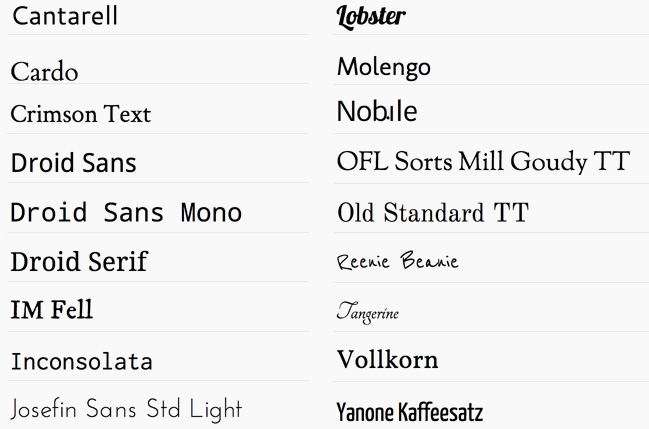
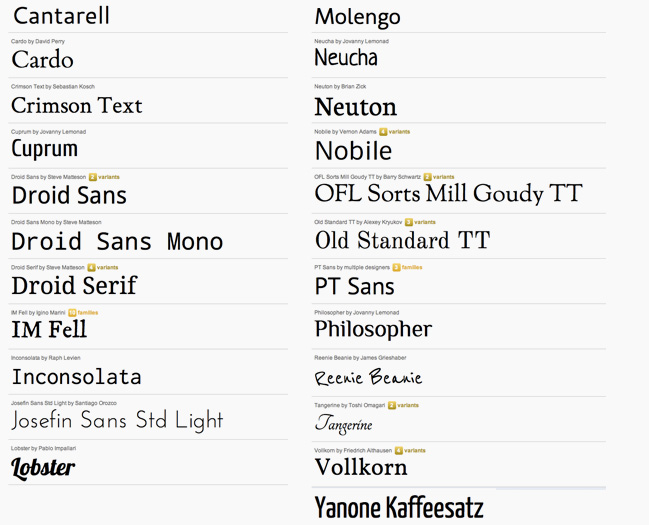
Added support for 5 new fonts
git-svn-id: https://plugins.svn.wordpress.org/wp-google-fonts/trunk@293608 b8457f37-d9ea-0310-8a92-e5e31aec5664

diff --git a/google-fonts.php b/google-fonts.php
@@ -2,7 +2,7 @@
 /* 
 Plugin Name: WP Google Fonts
 Plugin URI: http://adrian3.com/projects/wordpress-plugins/wordpress-google-fonts-plugin/
-Version: v1.3
+Version: v1.4
 Author: <a href="http://adrian3.com/">Adrian3</a>
 Description: The Wordpress Google Fonts Plugin makes it even easier to add and customize Google fonts on your site through Wordpress. 
 Author: Adrian Hanft
@@ -139,6 +139,14 @@ if ($this->options['googlefonts_font3'] == 'Crimson Text') 				{ echo '<link hre
 if ($this->options['googlefonts_font4'] == 'Crimson Text') 				{ echo '<link href=\'http://fonts.googleapis.com/css?family=Crimson+Text\' rel=\'stylesheet\' type=\'text/css\' />'; }
 if ($this->options['googlefonts_font5'] == 'Crimson Text') 				{ echo '<link href=\'http://fonts.googleapis.com/css?family=Crimson+Text\' rel=\'stylesheet\' type=\'text/css\' />'; }
 if ($this->options['googlefonts_font6'] == 'Crimson Text') 				{ echo '<link href=\'http://fonts.googleapis.com/css?family=Crimson+Text\' rel=\'stylesheet\' type=\'text/css\' />'; }
+
+// Cuprum
+if ($this->options['googlefonts_font1'] == 'Cuprum') 					{ echo '<link href=\'http://fonts.googleapis.com/css?family=Cuprum\' rel=\'stylesheet\' type=\'text/css\' />'; }
+if ($this->options['googlefonts_font2'] == 'Cuprum') 					{ echo '<link href=\'http://fonts.googleapis.com/css?family=Cuprum\' rel=\'stylesheet\' type=\'text/css\' />'; }
+if ($this->options['googlefonts_font3'] == 'Cuprum') 					{ echo '<link href=\'http://fonts.googleapis.com/css?family=Cuprum\' rel=\'stylesheet\' type=\'text/css\' />'; }
+if ($this->options['googlefonts_font4'] == 'Cuprum') 					{ echo '<link href=\'http://fonts.googleapis.com/css?family=Cuprum\' rel=\'stylesheet\' type=\'text/css\' />'; }
+if ($this->options['googlefonts_font5'] == 'Cuprum') 					{ echo '<link href=\'http://fonts.googleapis.com/css?family=Cuprum\' rel=\'stylesheet\' type=\'text/css\' />'; }
+if ($this->options['googlefonts_font6'] == 'Cuprum') 					{ echo '<link href=\'http://fonts.googleapis.com/css?family=Cuprum\' rel=\'stylesheet\' type=\'text/css\' />'; }
 
 // Droid Sans
 if ($this->options['googlefonts_font1'] == 'Droid Sans') 				{ echo '<link href=\'http://fonts.googleapis.com/css?family=Droid+Sans\' rel=\'stylesheet\' type=\'text/css\' />'; }
@@ -300,8 +308,6 @@ if ($this->options['googlefonts_font4'] == 'Josefin Sans Std Light') 	{ echo '<l
 if ($this->options['googlefonts_font5'] == 'Josefin Sans Std Light') 	{ echo '<link href=\'http://fonts.googleapis.com/css?family=Josefin+Sans+Std+Light\' rel=\'stylesheet\' type=\'text/css\' />'; }
 if ($this->options['googlefonts_font6'] == 'Josefin Sans Std Light') 	{ echo '<link href=\'http://fonts.googleapis.com/css?family=Josefin+Sans+Std+Light\' rel=\'stylesheet\' type=\'text/css\' />'; }
 
-
-
 // Lobster
 if ($this->options['googlefonts_font1'] == 'Lobster') 					{ echo '<link href=\'http://fonts.googleapis.com/css?family=Lobster\' rel=\'stylesheet\' type=\'text/css\' />'; }
 if ($this->options['googlefonts_font2'] == 'Lobster') 					{ echo '<link href=\'http://fonts.googleapis.com/css?family=Lobster\' rel=\'stylesheet\' type=\'text/css\' />'; }
@@ -310,7 +316,6 @@ if ($this->options['googlefonts_font4'] == 'Lobster') 					{ echo '<link href=\'
 if ($this->options['googlefonts_font5'] == 'Lobster') 					{ echo '<link href=\'http://fonts.googleapis.com/css?family=Lobster\' rel=\'stylesheet\' type=\'text/css\' />'; }
 if ($this->options['googlefonts_font6'] == 'Lobster') 					{ echo '<link href=\'http://fonts.googleapis.com/css?family=Lobster\' rel=\'stylesheet\' type=\'text/css\' />'; }
 
-
 // Molengo
 if ($this->options['googlefonts_font1'] == 'Molengo') 					{ echo '<link href=\'http://fonts.googleapis.com/css?family=Molengo\' rel=\'stylesheet\' type=\'text/css\' />'; }
 if ($this->options['googlefonts_font2'] == 'Molengo') 					{ echo '<link href=\'http://fonts.googleapis.com/css?family=Molengo\' rel=\'stylesheet\' type=\'text/css\' />'; }
@@ -318,6 +323,22 @@ if ($this->options['googlefonts_font3'] == 'Molengo') 					{ echo '<link href=\'
 if ($this->options['googlefonts_font4'] == 'Molengo') 					{ echo '<link href=\'http://fonts.googleapis.com/css?family=Molengo\' rel=\'stylesheet\' type=\'text/css\' />'; }
 if ($this->options['googlefonts_font5'] == 'Molengo') 					{ echo '<link href=\'http://fonts.googleapis.com/css?family=Molengo\' rel=\'stylesheet\' type=\'text/css\' />'; }
 if ($this->options['googlefonts_font6'] == 'Molengo') 					{ echo '<link href=\'http://fonts.googleapis.com/css?family=Molengo\' rel=\'stylesheet\' type=\'text/css\' />'; }
+
+// Neucha
+if ($this->options['googlefonts_font1'] == 'Neucha') 					{ echo '<link href=\'http://fonts.googleapis.com/css?family=Neucha\' rel=\'stylesheet\' type=\'text/css\' />'; }
+if ($this->options['googlefonts_font2'] == 'Neucha') 					{ echo '<link href=\'http://fonts.googleapis.com/css?family=Neucha\' rel=\'stylesheet\' type=\'text/css\' />'; }
+if ($this->options['googlefonts_font3'] == 'Neucha') 					{ echo '<link href=\'http://fonts.googleapis.com/css?family=Neucha\' rel=\'stylesheet\' type=\'text/css\' />'; }
+if ($this->options['googlefonts_font4'] == 'Neucha') 					{ echo '<link href=\'http://fonts.googleapis.com/css?family=Neucha\' rel=\'stylesheet\' type=\'text/css\' />'; }
+if ($this->options['googlefonts_font5'] == 'Neucha') 					{ echo '<link href=\'http://fonts.googleapis.com/css?family=Neucha\' rel=\'stylesheet\' type=\'text/css\' />'; }
+if ($this->options['googlefonts_font6'] == 'Neucha') 					{ echo '<link href=\'http://fonts.googleapis.com/css?family=Neucha\' rel=\'stylesheet\' type=\'text/css\' />'; }
+
+// Neuton
+if ($this->options['googlefonts_font1'] == 'Neuton') 					{ echo '<link href=\'http://fonts.googleapis.com/css?family=Neuton\' rel=\'stylesheet\' type=\'text/css\' />'; }
+if ($this->options['googlefonts_font2'] == 'Neuton') 					{ echo '<link href=\'http://fonts.googleapis.com/css?family=Neuton\' rel=\'stylesheet\' type=\'text/css\' />'; }
+if ($this->options['googlefonts_font3'] == 'Neuton') 					{ echo '<link href=\'http://fonts.googleapis.com/css?family=Neuton\' rel=\'stylesheet\' type=\'text/css\' />'; }
+if ($this->options['googlefonts_font4'] == 'Neuton') 					{ echo '<link href=\'http://fonts.googleapis.com/css?family=Neuton\' rel=\'stylesheet\' type=\'text/css\' />'; }
+if ($this->options['googlefonts_font5'] == 'Neuton') 					{ echo '<link href=\'http://fonts.googleapis.com/css?family=Neuton\' rel=\'stylesheet\' type=\'text/css\' />'; }
+if ($this->options['googlefonts_font6'] == 'Neuton') 					{ echo '<link href=\'http://fonts.googleapis.com/css?family=Neuton\' rel=\'stylesheet\' type=\'text/css\' />'; }
 
 // Nobile
 if ($this->options['googlefonts_font1'] == 'Nobile') 					{ echo '<link href=\'http://fonts.googleapis.com/css?family=Nobile\' rel=\'stylesheet\' type=\'text/css\' />'; }
@@ -333,7 +354,6 @@ if ($this->options['googlefonts_font3'] == 'Nobile:regular,italic,bold,bolditali
 if ($this->options['googlefonts_font4'] == 'Nobile:regular,italic,bold,bolditalic') 				{ echo '<link href=\'http://fonts.googleapis.com/css?family=Nobile:regular,italic,bold,bolditalic\' rel=\'stylesheet\' type=\'text/css\' />'; }
 if ($this->options['googlefonts_font5'] == 'Nobile:regular,italic,bold,bolditalic') 				{ echo '<link href=\'http://fonts.googleapis.com/css?family=Nobile:regular,italic,bold,bolditalic\' rel=\'stylesheet\' type=\'text/css\' />'; }
 if ($this->options['googlefonts_font6'] == 'Nobile:regular,italic,bold,bolditalic') 				{ echo '<link href=\'http://fonts.googleapis.com/css?family=Nobile:regular,italic,bold,bolditalic\' rel=\'stylesheet\' type=\'text/css\' />'; }
-
 
 // OFL Sorts Mill Goudy TT
 if ($this->options['googlefonts_font1'] == 'OFL Sorts Mill Goudy TT') 	{ echo '<link href=\'http://fonts.googleapis.com/css?family=OFL+Sorts+Mill+Goudy+TT\' rel=\'stylesheet\' type=\'text/css\' />'; }
@@ -364,6 +384,57 @@ if ($this->options['googlefonts_font3'] == 'Old Standard TT:regular,italic,bold'
 if ($this->options['googlefonts_font4'] == 'Old Standard TT:regular,italic,bold') 	{ echo '<link href=\'http://fonts.googleapis.com/css?family=Old Standard TT:regular,italic,bold\' rel=\'stylesheet\' type=\'text/css\' />'; }
 if ($this->options['googlefonts_font5'] == 'Old Standard TT:regular,italic,bold') 	{ echo '<link href=\'http://fonts.googleapis.com/css?family=Old Standard TT:regular,italic,bold\' rel=\'stylesheet\' type=\'text/css\' />'; }
 if ($this->options['googlefonts_font6'] == 'Old Standard TT:regular,italic,bold') 	{ echo '<link href=\'http://fonts.googleapis.com/css?family=Old Standard TT:regular,italic,bold\' rel=\'stylesheet\' type=\'text/css\' />'; }
+
+// Philosopher
+if ($this->options['googlefonts_font1'] == 'Philosopher') 				{ echo '<link href=\'http://fonts.googleapis.com/css?family=Philosopher\' rel=\'stylesheet\' type=\'text/css\' />'; }
+if ($this->options['googlefonts_font2'] == 'Philosopher') 			  { echo '<link href=\'http://fonts.googleapis.com/css?family=Philosopher\' rel=\'stylesheet\' type=\'text/css\' />'; }
+if ($this->options['googlefonts_font3'] == 'Philosopher') 		  	{ echo '<link href=\'http://fonts.googleapis.com/css?family=Philosopher\' rel=\'stylesheet\' type=\'text/css\' />'; }
+if ($this->options['googlefonts_font4'] == 'Philosopher') 	  		{ echo '<link href=\'http://fonts.googleapis.com/css?family=Philosopher\' rel=\'stylesheet\' type=\'text/css\' />'; }
+if ($this->options['googlefonts_font5'] == 'Philosopher') 	  		{ echo '<link href=\'http://fonts.googleapis.com/css?family=Philosopher\' rel=\'stylesheet\' type=\'text/css\' />'; }
+if ($this->options['googlefonts_font6'] == 'Philosopher') 	  		{ echo '<link href=\'http://fonts.googleapis.com/css?family=Philosopher\' rel=\'stylesheet\' type=\'text/css\' />'; }
+
+// PT Sans
+if ($this->options['googlefonts_font1'] == 'PT Sans') 				{ echo '<link href=\'http://fonts.googleapis.com/css?family=PT+Sans\' rel=\'stylesheet\' type=\'text/css\' />'; }
+if ($this->options['googlefonts_font2'] == 'PT Sans') 			  { echo '<link href=\'http://fonts.googleapis.com/css?family=PT+Sans\' rel=\'stylesheet\' type=\'text/css\' />'; }
+if ($this->options['googlefonts_font3'] == 'PT Sans') 	  		{ echo '<link href=\'http://fonts.googleapis.com/css?family=PT+Sans\' rel=\'stylesheet\' type=\'text/css\' />'; }
+if ($this->options['googlefonts_font4'] == 'PT Sans') 	  		{ echo '<link href=\'http://fonts.googleapis.com/css?family=PT+Sans\' rel=\'stylesheet\' type=\'text/css\' />'; }
+if ($this->options['googlefonts_font5'] == 'PT Sans') 	  		{ echo '<link href=\'http://fonts.googleapis.com/css?family=PT+Sans\' rel=\'stylesheet\' type=\'text/css\' />'; }
+if ($this->options['googlefonts_font6'] == 'PT Sans') 	  		{ echo '<link href=\'http://fonts.googleapis.com/css?family=PT+Sans\' rel=\'stylesheet\' type=\'text/css\' />'; }
+
+if ($this->options['googlefonts_font1'] == 'PT Sans:regular,italic,bold,bolditalic') 				{ echo '<link href=\'http://fonts.googleapis.com/css?family=PT+Sans:regular,italic,bold,bolditalic\' rel=\'stylesheet\' type=\'text/css\' />'; }
+if ($this->options['googlefonts_font2'] == 'PT Sans:regular,italic,bold,bolditalic') 			  { echo '<link href=\'http://fonts.googleapis.com/css?family=PT+Sans:regular,italic,bold,bolditalic\' rel=\'stylesheet\' type=\'text/css\' />'; }
+if ($this->options['googlefonts_font3'] == 'PT Sans:regular,italic,bold,bolditalic') 	  		{ echo '<link href=\'http://fonts.googleapis.com/css?family=PT+Sans:regular,italic,bold,bolditalic\' rel=\'stylesheet\' type=\'text/css\' />'; }
+if ($this->options['googlefonts_font4'] == 'PT Sans:regular,italic,bold,bolditalic') 	  		{ echo '<link href=\'http://fonts.googleapis.com/css?family=PT+Sans:regular,italic,bold,bolditalic\' rel=\'stylesheet\' type=\'text/css\' />'; }
+if ($this->options['googlefonts_font5'] == 'PT Sans:regular,italic,bold,bolditalic') 	  		{ echo '<link href=\'http://fonts.googleapis.com/css?family=PT+Sans:regular,italic,bold,bolditalic\' rel=\'stylesheet\' type=\'text/css\' />'; }
+if ($this->options['googlefonts_font6'] == 'PT Sans:regular,italic,bold,bolditalic') 	  		{ echo '<link href=\'http://fonts.googleapis.com/css?family=PT+Sans:regular,italic,bold,bolditalic\' rel=\'stylesheet\' type=\'text/css\' />'; }
+
+if ($this->options['googlefonts_font1'] == 'PT Sans Caption') 				{ echo '<link href=\'http://fonts.googleapis.com/css?family=PT+Sans+Caption\' rel=\'stylesheet\' type=\'text/css\' />'; }
+if ($this->options['googlefonts_font2'] == 'PT Sans Caption') 			  { echo '<link href=\'http://fonts.googleapis.com/css?family=PT+Sans+Caption\' rel=\'stylesheet\' type=\'text/css\' />'; }
+if ($this->options['googlefonts_font3'] == 'PT Sans Caption') 	  		{ echo '<link href=\'http://fonts.googleapis.com/css?family=PT+Sans+Caption\' rel=\'stylesheet\' type=\'text/css\' />'; }
+if ($this->options['googlefonts_font4'] == 'PT Sans Caption') 	  		{ echo '<link href=\'http://fonts.googleapis.com/css?family=PT+Sans+Caption\' rel=\'stylesheet\' type=\'text/css\' />'; }
+if ($this->options['googlefonts_font5'] == 'PT Sans Caption') 	  		{ echo '<link href=\'http://fonts.googleapis.com/css?family=PT+Sans+Caption\' rel=\'stylesheet\' type=\'text/css\' />'; }
+if ($this->options['googlefonts_font6'] == 'PT Sans Caption') 	  		{ echo '<link href=\'http://fonts.googleapis.com/css?family=PT+Sans+Caption\' rel=\'stylesheet\' type=\'text/css\' />'; }
+
+if ($this->options['googlefonts_font1'] == 'PT Sans Caption:regular,bold') 				{ echo '<link href=\'http://fonts.googleapis.com/css?family=PT+Sans+Caption:Bold\' rel=\'stylesheet\' type=\'text/css\' />'; }
+if ($this->options['googlefonts_font2'] == 'PT Sans Caption:regular,bold') 			  { echo '<link href=\'http://fonts.googleapis.com/css?family=PT+Sans+Caption:Bold\' rel=\'stylesheet\' type=\'text/css\' />'; }
+if ($this->options['googlefonts_font3'] == 'PT Sans Caption:regular,bold') 	  		{ echo '<link href=\'http://fonts.googleapis.com/css?family=PT+Sans+Caption:Bold\' rel=\'stylesheet\' type=\'text/css\' />'; }
+if ($this->options['googlefonts_font4'] == 'PT Sans Caption:regular,bold') 	  		{ echo '<link href=\'http://fonts.googleapis.com/css?family=PT+Sans+Caption:Bold\' rel=\'stylesheet\' type=\'text/css\' />'; }
+if ($this->options['googlefonts_font5'] == 'PT Sans Caption:regular,bold') 	  		{ echo '<link href=\'http://fonts.googleapis.com/css?family=PT+Sans+Caption:Bold\' rel=\'stylesheet\' type=\'text/css\' />'; }
+if ($this->options['googlefonts_font6'] == 'PT Sans Caption:regular,bold') 	  		{ echo '<link href=\'http://fonts.googleapis.com/css?family=PT+Sans+Caption:Bold\' rel=\'stylesheet\' type=\'text/css\' />'; }
+
+if ($this->options['googlefonts_font1'] == 'PT Sans Narrow') 				{ echo '<link href=\'http://fonts.googleapis.com/css?family=PT+Sans+Narrow\' rel=\'stylesheet\' type=\'text/css\' />'; }
+if ($this->options['googlefonts_font2'] == 'PT Sans Narrow') 			  { echo '<link href=\'http://fonts.googleapis.com/css?family=PT+Sans+Narrow\' rel=\'stylesheet\' type=\'text/css\' />'; }
+if ($this->options['googlefonts_font3'] == 'PT Sans Narrow') 	  		{ echo '<link href=\'http://fonts.googleapis.com/css?family=PT+Sans+Narrow\' rel=\'stylesheet\' type=\'text/css\' />'; }
+if ($this->options['googlefonts_font4'] == 'PT Sans Narrow') 	  		{ echo '<link href=\'http://fonts.googleapis.com/css?family=PT+Sans+Narrow\' rel=\'stylesheet\' type=\'text/css\' />'; }
+if ($this->options['googlefonts_font5'] == 'PT Sans Narrow') 	  		{ echo '<link href=\'http://fonts.googleapis.com/css?family=PT+Sans+Narrow\' rel=\'stylesheet\' type=\'text/css\' />'; }
+if ($this->options['googlefonts_font6'] == 'PT Sans Narrow') 	  		{ echo '<link href=\'http://fonts.googleapis.com/css?family=PT+Sans+Narrow\' rel=\'stylesheet\' type=\'text/css\' />'; }
+
+if ($this->options['googlefonts_font1'] == 'PT Sans Narrow:regular,bold') 				{ echo '<link href=\'http://fonts.googleapis.com/css?family=PT+Sans+Narrow:Bold\' rel=\'stylesheet\' type=\'text/css\' />'; }
+if ($this->options['googlefonts_font2'] == 'PT Sans Narrow:regular,bold') 			  { echo '<link href=\'http://fonts.googleapis.com/css?family=PT+Sans+Narrow:Bold\' rel=\'stylesheet\' type=\'text/css\' />'; }
+if ($this->options['googlefonts_font3'] == 'PT Sans Narrow:regular,bold') 	  		{ echo '<link href=\'http://fonts.googleapis.com/css?family=PT+Sans+Narrow:Bold\' rel=\'stylesheet\' type=\'text/css\' />'; }
+if ($this->options['googlefonts_font4'] == 'PT Sans Narrow:regular,bold') 	  		{ echo '<link href=\'http://fonts.googleapis.com/css?family=PT+Sans+Narrow:Bold\' rel=\'stylesheet\' type=\'text/css\' />'; }
+if ($this->options['googlefonts_font5'] == 'PT Sans Narrow:regular,bold') 	  		{ echo '<link href=\'http://fonts.googleapis.com/css?family=PT+Sans+Narrow:Bold\' rel=\'stylesheet\' type=\'text/css\' />'; }
+if ($this->options['googlefonts_font6'] == 'PT Sans Narrow:regular,bold') 	  		{ echo '<link href=\'http://fonts.googleapis.com/css?family=PT+Sans+Narrow:Bold\' rel=\'stylesheet\' type=\'text/css\' />'; }
 
 // Reenie Beanie
 if ($this->options['googlefonts_font1'] == 'Reenie Beanie') 				{ echo '<link href=\'http://fonts.googleapis.com/css?family=Reenie+Beanie\' rel=\'stylesheet\' type=\'text/css\' />'; }
@@ -863,6 +934,7 @@ $this->options['googlefont6_css'] = $_POST['googlefont6_css'];
 <option value="Cantarell:regular,italic,bold,bolditalic">Cantarell (plus italic, bold, and bold italic)</option>
 <option value="Cardo">Cardo</option>
 <option value="Crimson Text">Crimson Text</option>
+<option value="Cuprum">Cuprum</option>
 <option value="Droid Sans">Droid Sans</option>
 <option value="Droid Sans:regular,bold">Droid Sans (plus bold)</option>
 <option value="Droid Sans Mono">Droid Sans Mono</option>
@@ -889,11 +961,20 @@ $this->options['googlefont6_css'] = $_POST['googlefont6_css'];
 <option value="Molengo">Molengo</option>
 <option value="Nobile">Nobile</option>
 <option value="Nobile:regular,italic,bold,bolditalic">Nobile (plus italic, bold, and bold italic)</option>
+<option value="Neucha">Neucha</option>
+<option value="Neuton">Neuton</option>
 <option value="OFL Sorts Mill Goudy TT">OFL Sorts Mill Goudy TT</option>
 <option value="OFL Sorts Mill Goudy TT:regular,italic">OFL Sorts Mill Goudy TT (plus italic)</option>
 <option value="Old Standard TT">Old Standard TT</option>
 <option value="Old Standard TT:regular,italic,bold">Old Standard TT (plus italic and bold)</option>
 <option value="Reenie Beanie">Reenie Beanie</option>
+<option value="Philosopher">Philosopher</option>
+<option value="PT Sans">PT Sans</option>
+<option value="PT Sans:regular,italic,bold,bolditalic">PT Sans (plus itlic, bold, and bold italic)</option>
+<option value="PT Sans Caption">PT Sans Caption</option>
+<option value="PT Sans Caption:regular,bold">PT Sans Caption (plus bold)</option>
+<option value="PT Sans Narrow">PT Sans Narrow</option>
+<option value="PT Sans Narrow:regular,bold">PT Sans Narrow (plus bold)</option>
 <option value="Tangerine">Tangerine</option>
 <option value="Vollkorn">Vollkorn</option>
 <option value="Vollkorn:regular,bold">Vollkorn (plus bold)</option>
